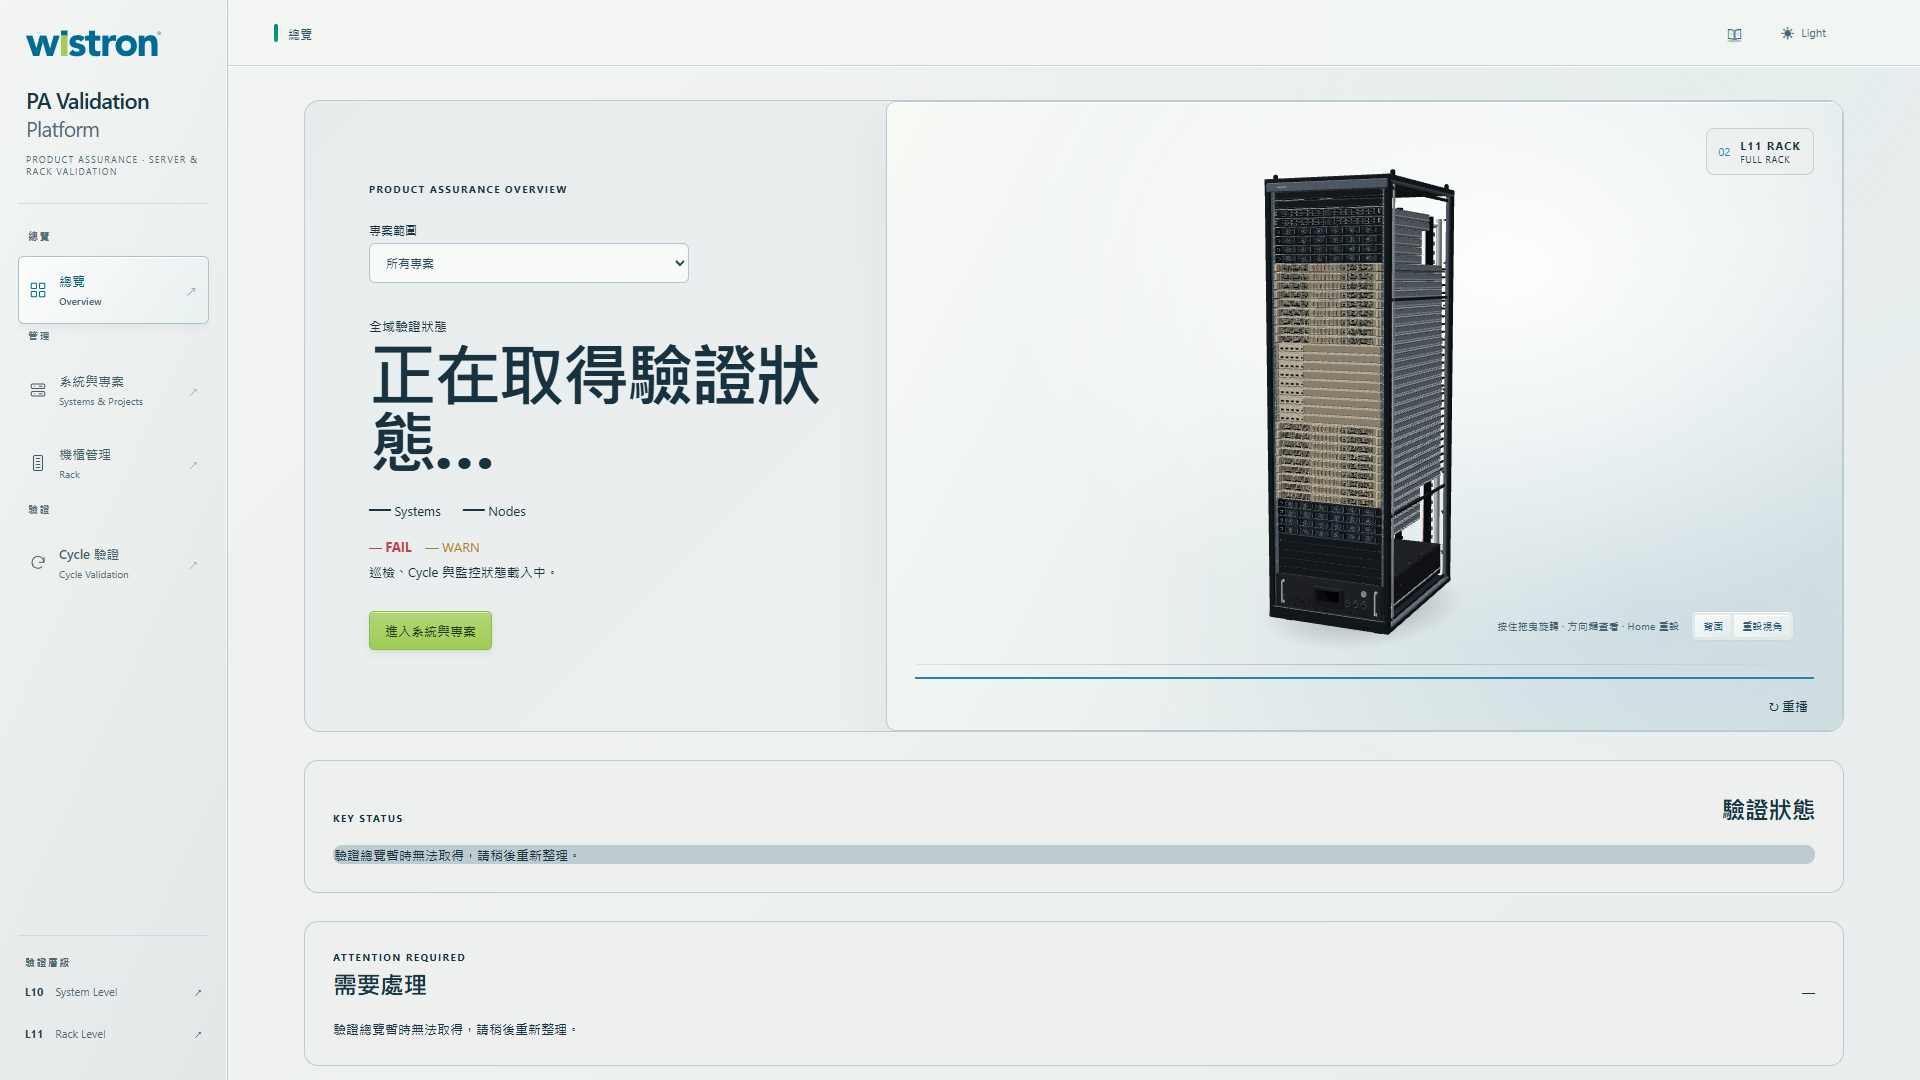
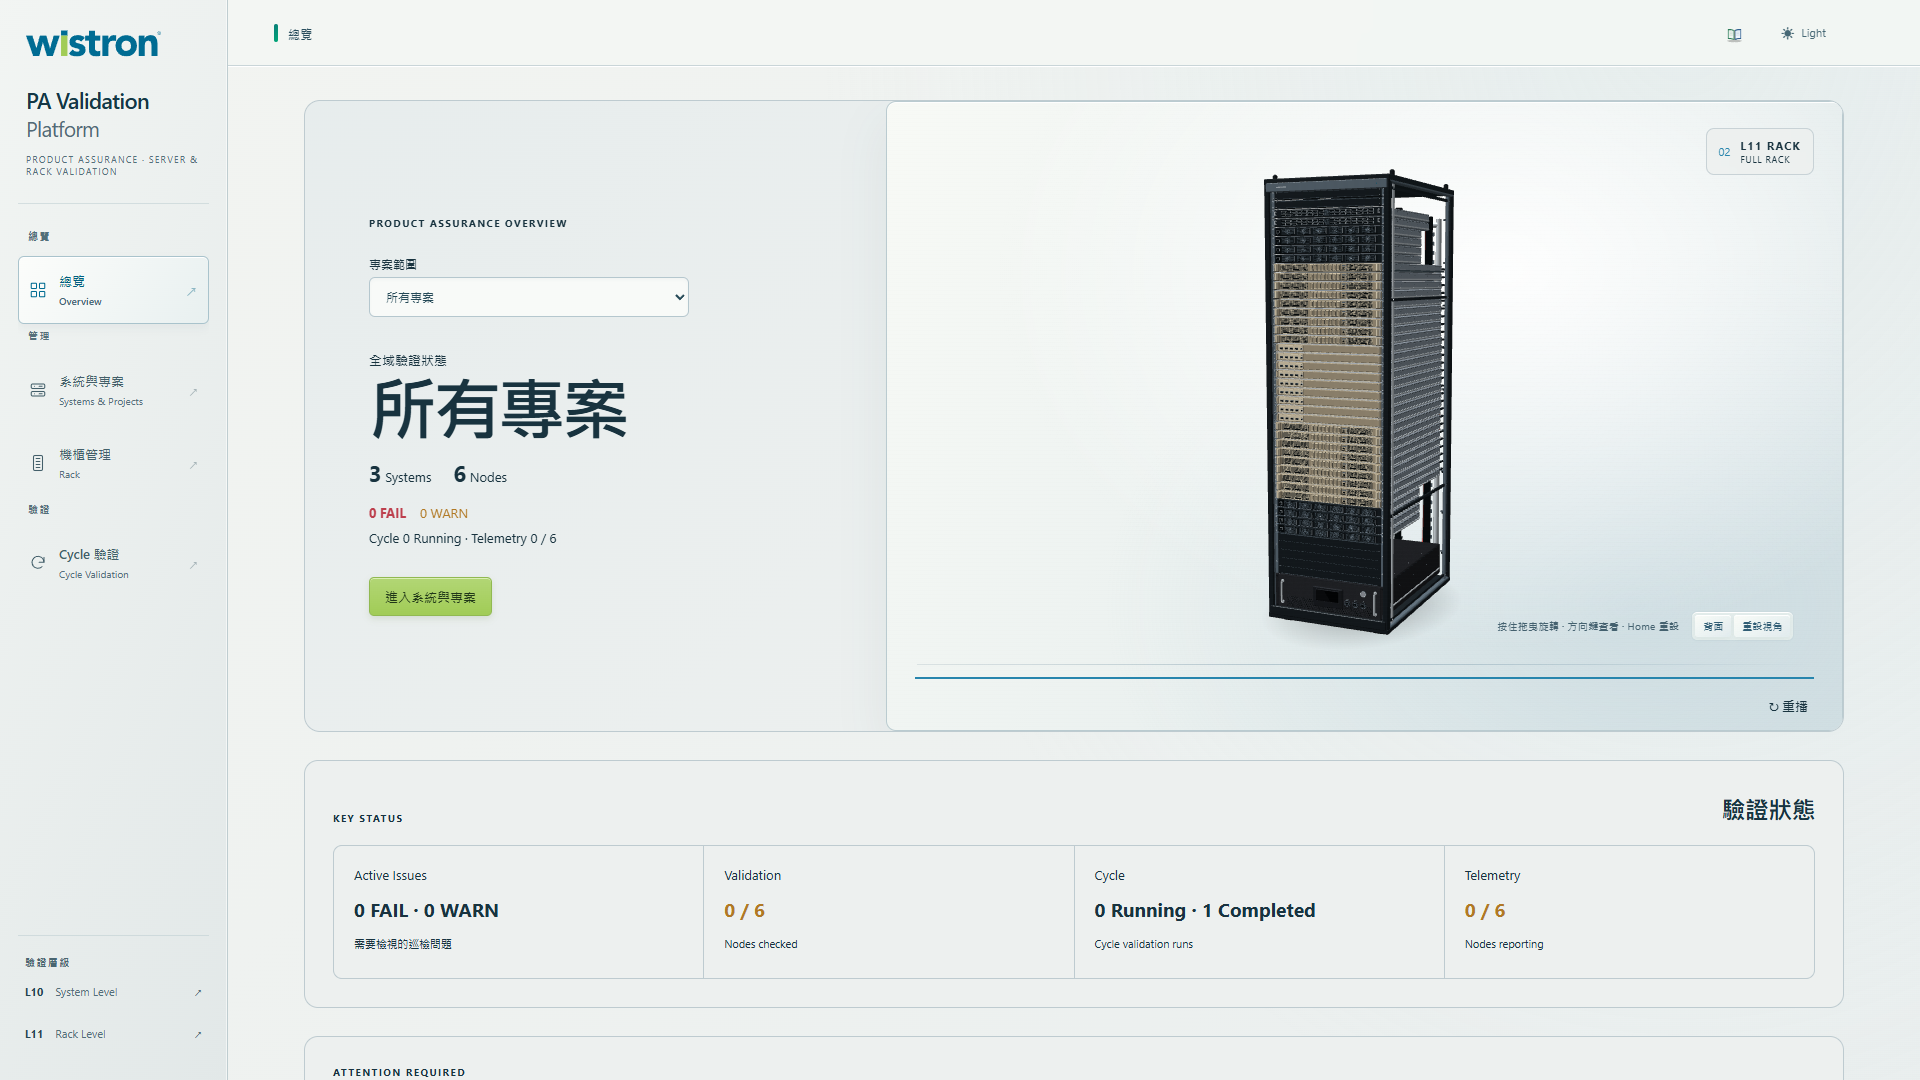
fix: correct dashboard overview aggregation

diff --git a/app/static/js/validation-overview.js b/app/static/js/validation-overview.js
@@ -46,13 +46,13 @@
     root.querySelector('[data-vo-title]').textContent=isProject?item.name:'所有專案';
     root.querySelector('[data-vo-systems]').textContent=item.systems;root.querySelector('[data-vo-nodes]').textContent=item.nodes;
     root.querySelector('[data-vo-fail]').textContent=`${item.issues.fail} FAIL`;root.querySelector('[data-vo-warn]').textContent=`${item.issues.warning} WARN`;
-    root.querySelector('[data-vo-summary]').textContent=`Cycle ${item.cycle.running} Running · Monitoring ${item.monitoring.reporting} / ${item.monitoring.total}`;
+    root.querySelector('[data-vo-summary]').textContent=`Cycle ${item.cycle.running} Running · Telemetry ${item.monitoring.reporting} / ${item.monitoring.total}`;
     root.querySelector('[data-vo-enter]').textContent=isProject?'進入專案':'進入系統與專案';
     const cards=[
       ['Active Issues',`${item.issues.fail} FAIL · ${item.issues.warning} WARN`,'需要檢視的巡檢問題',item.issues.fail?'fail':item.issues.warning?'warn':'ok'],
       ['Validation',`${item.validation.checked} / ${item.validation.total}`,'Nodes checked',item.validation.checked<item.validation.total?'warn':'ok'],
       ['Cycle',`${item.cycle.running} Running · ${item.cycle.completed} Completed`,'Cycle validation runs',item.cycle.running?'active':'ok'],
-      ['Monitoring',`${item.monitoring.reporting} / ${item.monitoring.total}`,'Nodes reporting',item.monitoring.reporting<item.monitoring.total?'warn':'ok']
+      ['Telemetry',`${item.monitoring.reporting} / ${item.monitoring.total}`,'Nodes reporting',item.monitoring.reporting<item.monitoring.total?'warn':'ok']
     ];
     root.querySelector('[data-vo-status]').innerHTML=cards.map(([label,value,detail,state])=>`<article data-state="${state}"><span>${label}</span><strong>${value}</strong><small>${detail}</small></article>`).join('');
     const issues=overview.issues.filter(issue=>!selectedProject||issue.project===selectedProject).slice(0,6);

diff --git a/tests/test_validation_overview.py b/tests/test_validation_overview.py
@@ -1,0 +1,172 @@
+import copy
+import tempfile
+import time
+import unittest
+from pathlib import Path
+from types import SimpleNamespace
+
+from fastapi.testclient import TestClient
+
+from integration.inspection import InspectionStore, encode as inspection_encode
+from integration.store import Store, encode as store_encode
+from integration.targets import inventory as node_inventory
+from integration.telemetry_monitoring import MonitoringConfig
+from integration.telemetry_store import ProvisionStore
+from scripts.native_demo import fixture
+
+
+class ValidationOverviewAggregation(unittest.TestCase):
+    def setUp(self):
+        from integration import web
+
+        self.web=web
+        self.folder=tempfile.TemporaryDirectory()
+        root=Path(self.folder.name)
+        self.previous=dict(store=web.store,machines=web.pa.machines,projects=web.pa.projects,
+                           provider=getattr(web.app.state,'cycle_provider',None),
+                           inspection_service=web.inspection_service,
+                           telemetry_service=web.telemetry_provision_service)
+        doc=fixture(chassis=1,nodes=5,project='A')
+        web.pa.projects=copy.deepcopy(doc['projects'])
+        web.pa.machines=copy.deepcopy(doc['machines'])
+        web.store=Store(root/'jobs.sqlite3')
+        self.inspection_store=InspectionStore(root/'inspection.sqlite3')
+        self.telemetry_store=ProvisionStore(root/'telemetry.sqlite3')
+        self.telemetry=SimpleNamespace(store=self.telemetry_store,config=MonitoringConfig(freshness_seconds=120))
+        self.inspection=SimpleNamespace(store=self.inspection_store,systems=self.systems)
+        web.inspection_service=lambda:self.inspection
+        web.telemetry_provision_service=lambda:self.telemetry
+
+        class Provider:
+            def authenticate(self,request): return 'overview-reader'
+            def authorize(self,actor,project,action):
+                if actor!='overview-reader': return False
+                if project is None: return action=='global.read'
+                return project=='A' and action=='read'
+
+        web.app.state.cycle_provider=Provider()
+        self.client=TestClient(web.app)
+        self.targets=node_inventory(web.pa)
+        self.chassis_id=self.targets[0]['chassis_id']
+
+    def tearDown(self):
+        self.client.close()
+        self.web.store=self.previous['store']
+        self.web.pa.machines=self.previous['machines']
+        self.web.pa.projects=self.previous['projects']
+        self.web.app.state.cycle_provider=self.previous['provider']
+        self.web.inspection_service=self.previous['inspection_service']
+        self.web.telemetry_provision_service=self.previous['telemetry_service']
+        self.folder.cleanup()
+
+    def systems(self):
+        targets=node_inventory(self.web.pa)
+        active=self.web.pa.machines['chassis-01'].get('active_os')
+        nodes=[dict(node_id=target['node_id'],slot=int(target['slot_key'][1:]),label=target['slot_key']) for target in targets]
+        if active is not None:
+            scoped=[node for node in nodes if node['slot']==active]
+            if scoped: nodes=scoped
+        return [dict(id=self.chassis_id,name='chassis-01',project='A',active_os=active,nodes=nodes)]
+
+    def seed_inspected(self,*indexes):
+        completed=1000
+        with self.inspection_store.tx() as db:
+            system=self.inspection_store.system(self.chassis_id,db)
+            system.update(last_completed_at=completed,next_due=completed+60,coverage=[])
+            self.inspection_store.save_system(db,system)
+            for index in indexes:
+                node_id=self.targets[index]['node_id']
+                state={'last_completed':completed+index,
+                       'sources':{'Identity':{'state':'FRESH','last_success':completed+index,'collected_at':completed+index}}}
+                db.execute('INSERT OR REPLACE INTO inspection_nodes VALUES(?,?,?)',
+                           (node_id,self.chassis_id,inspection_encode(state)))
+
+    def seed_issue(self,index,severity):
+        node_id=self.targets[index]['node_id']
+        item=dict(id='issue-'+str(index),system_id=self.chassis_id,node_id=node_id,status='ACTIVE',severity=severity,
+                  component='gpu' if severity=='FAIL' else 'telemetry',rule='fixture.'+severity.lower(),facts='fixture issue',
+                  affected_nodes=[],first_seen_at=1000,last_seen_at=1000,observations=1,recurrences=0)
+        with self.inspection_store.tx() as db:
+            db.execute('INSERT OR REPLACE INTO inspection_items VALUES(?,?,?)',(item['id'],self.chassis_id,inspection_encode(item)))
+
+    def seed_failed_inspection(self,index):
+        node_id=self.targets[index]['node_id']
+        state={'last_completed':1000+index,
+               'sources':{'Identity':{'state':'FAILED','last_attempt':1000+index,'last_success':None}}}
+        with self.inspection_store.tx() as db:
+            db.execute('INSERT OR REPLACE INTO inspection_nodes VALUES(?,?,?)',
+                       (node_id,self.chassis_id,inspection_encode(state)))
+
+    def overview(self):
+        response=self.client.get('/api/validation/overview')
+        self.assertEqual(response.status_code,200,response.text)
+        return response.json()
+
+    def test_inspection_coverage_stays_with_original_node_after_active_os_switch(self):
+        self.seed_inspected(0)
+        first=self.overview()
+        self.assertEqual(first['totals']['validation'],{'checked':1,'pass':1,'total':5})
+
+        self.web.pa.machines['chassis-01']['active_os']=2
+        second=self.overview()
+        self.assertEqual(second['totals']['validation'],{'checked':1,'pass':1,'total':5})
+        self.assertEqual(self.inspection_store.successful_nodes(self.chassis_id),{self.targets[0]['node_id']:1000})
+
+    def test_mixed_per_node_inspection_and_active_issues_aggregate_correctly(self):
+        self.seed_inspected(0,1,2)
+        self.seed_failed_inspection(3)
+        self.seed_issue(1,'WARNING')
+        self.seed_issue(2,'FAIL')
+        self.web.pa.machines['chassis-01']['active_os']=5
+
+        data=self.overview();project=data['projects'][0]
+        self.assertEqual(project['validation'],{'checked':3,'pass':1,'total':5})
+        self.assertEqual(project['issues'],{'fail':1,'warning':1})
+        self.assertEqual(data['totals']['validation'],{'checked':3,'pass':1,'total':5})
+        self.assertEqual({issue['node'] for issue in data['issues']},{'N2','N3'})
+
+    def test_host_reporting_requires_fresh_canonical_health_row(self):
+        now=time.time();freshness=self.telemetry.config.freshness_seconds
+        # Fresh Host READY.
+        self.telemetry_store.health(self.targets[0],'READY','fresh')
+        self.telemetry_store.components(self.targets[0]['node_id'],{'host':'READY','gpu':{'state':'READY'}})
+        # Host READY, but stale.
+        self.telemetry_store.health(self.targets[1],'READY','stale')
+        self.telemetry_store.components(self.targets[1]['node_id'],{'host':'READY'})
+        # Fresh durable row, but Host is not READY.
+        self.telemetry_store.health(self.targets[2],'READY','host degraded')
+        self.telemetry_store.components(self.targets[2]['node_id'],{'host':'DEGRADED'})
+        # Host remains reportable even when GPU and node-level aggregate are degraded.
+        self.telemetry_store.health(self.targets[3],'DEGRADED','gpu requires attention')
+        self.telemetry_store.components(self.targets[3]['node_id'],{'host':'READY','gpu':{'state':'DEGRADED'}})
+        # Node five deliberately has no durable Telemetry state.
+        with self.telemetry_store.tx() as db:
+            db.execute('UPDATE telemetry_nodes SET checked_at=? WHERE node_id=?',
+                       (now-freshness-1,self.targets[1]['node_id']))
+
+        data=self.overview()
+        self.assertEqual(data['projects'][0]['monitoring'],{'reporting':2,'total':5})
+        self.assertEqual(data['totals']['monitoring'],{'reporting':2,'total':5})
+
+    def test_pre_running_is_in_progress_and_complete_is_terminal(self):
+        def job(job_id,state,project='A'):
+            at=time.time()
+            record=dict(id=job_id,project=project,state=state,health='PENDING',created_at=at,updated_at=at)
+            with self.web.store.tx() as db:
+                db.execute('INSERT INTO jobs VALUES(?,?,?,?,?,?,?)',
+                           (job_id,project,job_id,'fixture-'+job_id,state,at,store_encode(record)))
+
+        job('pre','PRE_RUNNING')
+        job('done','COMPLETE')
+        # An unauthorized project's active job must not enter totals or recent activity.
+        self.web.pa.projects['B']={'name':'B'}
+        job('hidden','RUNNING','B')
+
+        data=self.overview()
+        self.assertEqual(data['projects'][0]['cycle'],{'running':1,'completed':1})
+        self.assertEqual(data['totals']['cycle'],{'running':1,'completed':1})
+        self.assertEqual({row['id'] for row in data['recent_runs']},{'pre','done'})
+
+
+if __name__=='__main__':
+    unittest.main()

diff --git a/integration/web.py b/integration/web.py
@@ -21,7 +21,7 @@ from .inventory import synchronized, mutate, local_write, validate_machine
 from .boundary import category
 from . import control as manual
 from .credentials import load_credentials
-from .store import Store, Conflict, SAFE_FIELDS, TERMINAL, scopes, target_reason, validate_request, fingerprint
+from .store import Store, Conflict, SAFE_FIELDS, TERMINAL, IN_PROGRESS, scopes, target_reason, validate_request, fingerprint
 from cycle_core import EvidencePersistenceError
 from .events import log_line
 from .targets import inventory as node_inventory, resolve_target, resolve_control_target, public
@@ -684,6 +684,7 @@ telemetry_provision_service = install_telemetry_provision(app, pa)
 @app.get('/api/validation/overview')
 def validation_overview(request:Request):
     """Read-only Product Assurance overview from durable inspection/Cycle/Telemetry state."""
+    overview_at=time.time()
     allowed=[]
     with pa._DATA_LOCK:
         project_rows=copy.deepcopy(pa.projects)
@@ -696,6 +697,7 @@ def validation_overview(request:Request):
                         validation={'checked':0,'pass':0,'total':0},cycle={'running':0,'completed':0},
                         monitoring={'reporting':0,'total':0},last_validation=None) for name in allowed}
     targets=[target for target in node_inventory(pa) if target.get('project') in projects]
+    targets_by_node={target['node_id']:target for target in targets}
     for name,item in projects.items():
         members=[machine for machine in machine_rows.values() if machine.get('project')==name and machine.get('mgx_type','server')=='server' and not machine.get('passive')]
         item['systems']=len(members)
@@ -707,9 +709,10 @@ def validation_overview(request:Request):
     for system in inspection.systems():
         project=projects.get(system.get('project'))
         if not project: continue
-        snapshot=inspection.store.summary(system['id'])
         active=inspection.store.issues(system['id'],100,0,'ACTIVE')
-        checked_ids={node['node_id'] for node in system.get('nodes',[])} if snapshot.get('last_completed_at') else set()
+        canonical_ids={target['node_id'] for target in targets if target.get('chassis_id')==system['id'] and target.get('project')==system.get('project')}
+        successful=inspection.store.successful_nodes(system['id'])
+        checked_ids=canonical_ids.intersection(successful)
         issue_nodes=set()
         for issue in active:
             severity='FAIL' if issue.get('severity')=='FAIL' else 'WARNING'
@@ -717,24 +720,29 @@ def validation_overview(request:Request):
             affected=set(issue.get('affected_nodes') or [])
             if issue.get('node_id'): affected.add(issue['node_id'])
             issue_nodes.update(affected)
-            node=next((node for node in system.get('nodes',[]) if node['node_id'] in affected),None)
+            node=next((targets_by_node[node_id] for node_id in affected if node_id in targets_by_node),None)
             issue_rows.append(dict(id=issue['id'],project=system['project'],system=system['name'],node_id=issue.get('node_id'),
-                                   node=node.get('label') if node else issue.get('node_id'),severity=severity,
+                                   node=(node.get('slot_key') or node.get('display_name')) if node else issue.get('node_id'),severity=severity,
                                    component=issue.get('component'),rule=issue.get('rule'),facts=issue.get('facts'),
                                    last_seen_at=issue.get('last_seen_at')))
         project['validation']['checked']+=len(checked_ids)
         project['validation']['pass']+=len(checked_ids-issue_nodes)
-        completed=snapshot.get('last_completed_at')
+        completed=max((successful[node_id] for node_id in checked_ids),default=None)
         if completed and (project['last_validation'] is None or completed>project['last_validation']): project['last_validation']=completed
     telemetry=telemetry_provision_service()
     for target in targets:
         project=projects[target['project']]
-        if telemetry.store.components(target['node_id']).get('host')=='READY': project['monitoring']['reporting']+=1
+        durable=telemetry.store.node(target['node_id'])
+        components=telemetry.store.components(target['node_id'])
+        checked_at=durable.get('checked_at') if durable else None
+        fresh=type(checked_at) in {int,float} and 0<=overview_at-checked_at<=telemetry.config.freshness_seconds
+        if components.get('host')=='READY' and durable and durable.get('binding')==target.get('revision') and fresh:
+            project['monitoring']['reporting']+=1
     recent=[]
     for job in store.jobs():
         project=projects.get(job.get('project'))
         if not project: continue
-        if job.get('state') in {'CREATED','PREPARING','AWAITING_CONFIRMATION','RUNNING','STOP_REQUESTED'}: project['cycle']['running']+=1
+        if job.get('state') in IN_PROGRESS: project['cycle']['running']+=1
         elif job.get('state')=='COMPLETE': project['cycle']['completed']+=1
         recent.append({key:job.get(key) for key in ('id','project','state','health','created_at','updated_at')})
     rows=list(projects.values())
@@ -745,4 +753,4 @@ def validation_overview(request:Request):
                 monitoring={'reporting':sum(row['monitoring']['reporting'] for row in rows),'total':sum(row['monitoring']['total'] for row in rows)})
     issue_rows.sort(key=lambda issue:(0 if issue['severity']=='FAIL' else 1,-(issue.get('last_seen_at') or 0)))
     recent.sort(key=lambda job:job.get('updated_at') or job.get('created_at') or 0,reverse=True)
-    return {'generated_at':time.time(),'totals':totals,'projects':rows,'issues':issue_rows[:50],'recent_runs':recent[:10]}
+    return {'generated_at':overview_at,'totals':totals,'projects':rows,'issues':issue_rows[:50],'recent_runs':recent[:10]}

diff --git a/integration/inspection.py b/integration/inspection.py
@@ -105,6 +105,23 @@ class InspectionStore:
         with self.tx(False) as db:
             return {r['id']:json.loads(r['data']) for r in db.execute('SELECT id,data FROM inspection_nodes WHERE system_id=?',(system_id,))}
 
+    def successful_nodes(self,system_id):
+        """Canonical nodes with at least one durable successful collection.
+
+        ``inspection_nodes`` is the existing per-node aggregate written by the
+        independent collector.  Unlike the chassis summary, it remains bound to
+        the original node_id when the operator changes ``active_os``.
+        """
+        result={}
+        for node_id,state in self.node_state(system_id).items():
+            successes=[source.get('last_success') for source in state.get('sources',{}).values()
+                       if type(source.get('last_success')) in {int,float} and math.isfinite(source['last_success']) and source['last_success']>0]
+            completed=state.get('last_completed')
+            if type(completed) not in {int,float} or not math.isfinite(completed) or completed<=0:
+                completed=max(successes,default=None)  # compatibility with older durable node aggregates
+            if successes and completed is not None: result[node_id]=completed
+        return result
+
     def progress(self,system_id,node_id,data):
         with self.tx() as db:
             db.execute('INSERT OR REPLACE INTO inspection_progress VALUES(?,?,?)',(system_id,node_id,encode(data)))

diff --git a/integration/store.py b/integration/store.py
@@ -18,6 +18,9 @@ from .profiles import checker_script_path, checker_missing_message
 from cycle_core import LOG_TIMEZONE
 
 TERMINAL = {'COMPLETE', 'INCOMPLETE', 'CANCELLED', 'BLOCKED', 'ERROR', 'RECONCILIATION_REQUIRED'}
+# Store/domain lifecycle states that still represent an in-progress Cycle.  The
+# older PREPARING spelling is accepted for imported history only.
+IN_PROGRESS = {'CREATED', 'PRE_RUNNING', 'AWAITING_CONFIRMATION', 'RUNNING', 'STOP_REQUESTED', 'PREPARING'}
 SAFE_FIELDS = ('name','project','tray','node','os_ip','bmc_ip','os_hostname','bmc_hostname',
                'os_user','bmc_user','os_port','bmc_port','ipmi_cipher','power_domain','aux_domain',
                'aux_scope_confirmed','credential_ref','synthetic','mgx_type','cycle_profile',
